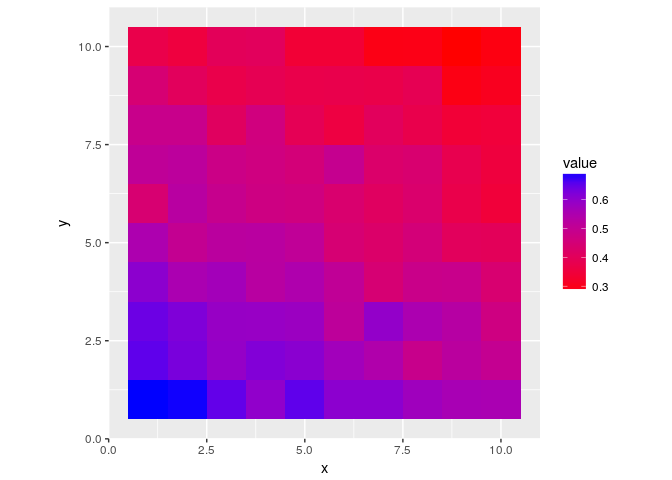
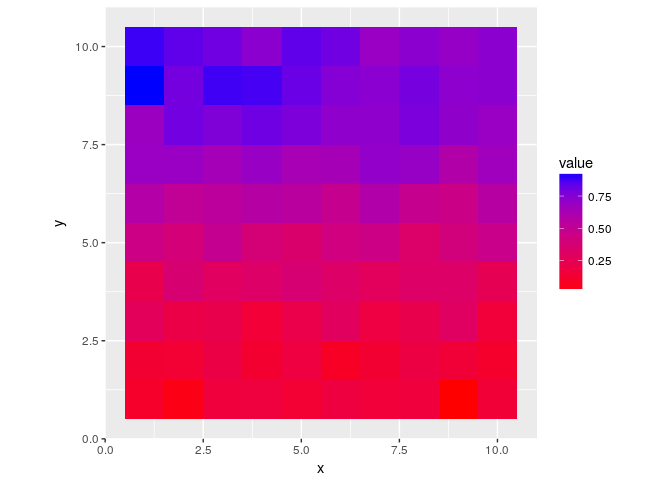
updated readme

diff --git a/README.md b/README.md
@@ -33,8 +33,8 @@ m <- sampleProportion(10, i_target = 0.9, mean_target = 0.5)
 #> 
 #> SAMPLING FOR MODEL 'gpcor' NOW (CHAIN 1).
 #> 
-#> Gradient evaluation took 0.001484 seconds
-#> 1000 transitions using 10 leapfrog steps per transition would take 14.84 seconds.
+#> Gradient evaluation took 0.001615 seconds
+#> 1000 transitions using 10 leapfrog steps per transition would take 16.15 seconds.
 #> Adjust your expectations accordingly!
 #> 
 #> 
@@ -51,9 +51,11 @@ m <- sampleProportion(10, i_target = 0.9, mean_target = 0.5)
 #> Iteration: 900 / 1000 [ 90%]  (Sampling)
 #> Iteration: 1000 / 1000 [100%]  (Sampling)
 #> 
-#>  Elapsed Time: 28.4442 seconds (Warm-up)
-#>                31.2279 seconds (Sampling)
-#>                59.6722 seconds (Total)
+#>  Elapsed Time: 25.3592 seconds (Warm-up)
+#>                22.5426 seconds (Sampling)
+#>                47.9018 seconds (Total)
+#> Warning: There were 1 divergent transitions after warmup. Increasing adapt_delta above 0.8 may help. See
+#> http://mc-stan.org/misc/warnings.html#divergent-transitions-after-warmup
 #> Warning: There were 1 chains where the estimated Bayesian Fraction of Missing Information was low. See
 #> http://mc-stan.org/misc/warnings.html#bfmi-low
 #> Warning: Examine the pairs() plot to diagnose sampling problems
@@ -62,17 +64,18 @@ plotMap(m)
 
 ![](README-example-1.png)
 
+This results in an average *I* value of 0.79 and an average proportion of 0.51.
+
 Now for comparison, let's do the same thing but for a `10 x 10` map with no spatial structure and the same mean:
 
 ``` r
-require(motifator)
 m <- sampleProportion(10, i_target = 0.0, mean_target = 0.5)
 #> Joining, by = c("x", "y")
 #> 
 #> SAMPLING FOR MODEL 'gpcor' NOW (CHAIN 1).
 #> 
-#> Gradient evaluation took 0.001552 seconds
-#> 1000 transitions using 10 leapfrog steps per transition would take 15.52 seconds.
+#> Gradient evaluation took 0.001442 seconds
+#> 1000 transitions using 10 leapfrog steps per transition would take 14.42 seconds.
 #> Adjust your expectations accordingly!
 #> 
 #> 
@@ -89,9 +92,9 @@ m <- sampleProportion(10, i_target = 0.0, mean_target = 0.5)
 #> Iteration: 900 / 1000 [ 90%]  (Sampling)
 #> Iteration: 1000 / 1000 [100%]  (Sampling)
 #> 
-#>  Elapsed Time: 12.2905 seconds (Warm-up)
-#>                13.4921 seconds (Sampling)
-#>                25.7826 seconds (Total)
+#>  Elapsed Time: 13.0166 seconds (Warm-up)
+#>                9.53646 seconds (Sampling)
+#>                22.5531 seconds (Total)
 #> Warning: There were 1 chains where the estimated Bayesian Fraction of Missing Information was low. See
 #> http://mc-stan.org/misc/warnings.html#bfmi-low
 #> Warning: Examine the pairs() plot to diagnose sampling problems
@@ -99,3 +102,44 @@ plotMap(m)
 ```
 
 ![](README-example2-1.png)
+
+This results in an average *I* value of 0.04 and an average proportion of 0.50.
+
+And with anti-correlation:
+
+``` r
+m <- sampleProportion(10, i_target = -0.9, mean_target = 0.5)
+#> Joining, by = c("x", "y")
+#> 
+#> SAMPLING FOR MODEL 'gpcor' NOW (CHAIN 1).
+#> 
+#> Gradient evaluation took 0.001501 seconds
+#> 1000 transitions using 10 leapfrog steps per transition would take 15.01 seconds.
+#> Adjust your expectations accordingly!
+#> 
+#> 
+#> Iteration:   1 / 1000 [  0%]  (Warmup)
+#> Iteration: 100 / 1000 [ 10%]  (Warmup)
+#> Iteration: 200 / 1000 [ 20%]  (Warmup)
+#> Iteration: 300 / 1000 [ 30%]  (Warmup)
+#> Iteration: 400 / 1000 [ 40%]  (Warmup)
+#> Iteration: 500 / 1000 [ 50%]  (Warmup)
+#> Iteration: 501 / 1000 [ 50%]  (Sampling)
+#> Iteration: 600 / 1000 [ 60%]  (Sampling)
+#> Iteration: 700 / 1000 [ 70%]  (Sampling)
+#> Iteration: 800 / 1000 [ 80%]  (Sampling)
+#> Iteration: 900 / 1000 [ 90%]  (Sampling)
+#> Iteration: 1000 / 1000 [100%]  (Sampling)
+#> 
+#>  Elapsed Time: 12.2454 seconds (Warm-up)
+#>                9.7475 seconds (Sampling)
+#>                21.9929 seconds (Total)
+#> Warning: There were 1 chains where the estimated Bayesian Fraction of Missing Information was low. See
+#> http://mc-stan.org/misc/warnings.html#bfmi-low
+#> Warning: Examine the pairs() plot to diagnose sampling problems
+plotMap(m)
+```
+
+![](README-example3-1.png)
+
+This results in an average *I* value of -0.14 and an average proportion of 0.50. This value is a bit short of our target value of I, but we can see that the variance of the cell values has increased significantly. Acheiving the theoretical maximum value of -1 may be particularly infeasible for continuous outputs constrained to (0,1) because it necessitates a perfectly inverse relationship in the value of neighboring cells. Future iterations should pre-derive the minimum and maximum values of *I* given the output range and allow users to set the correlation parameter as a function of this range.
